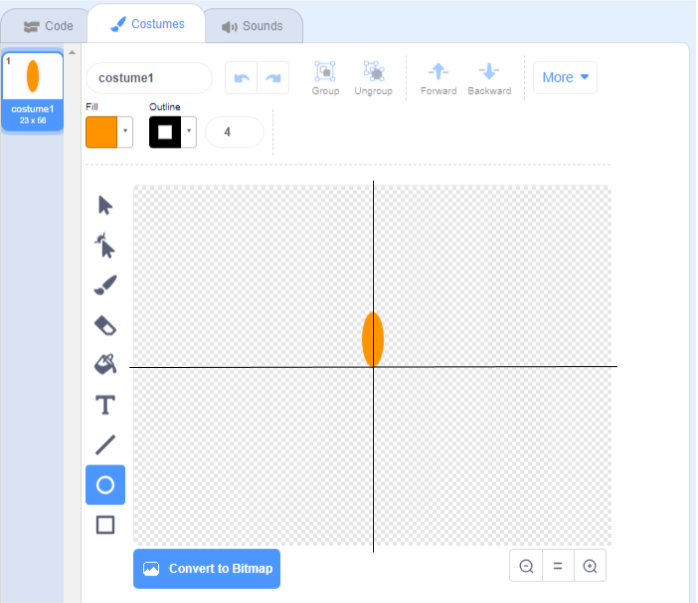
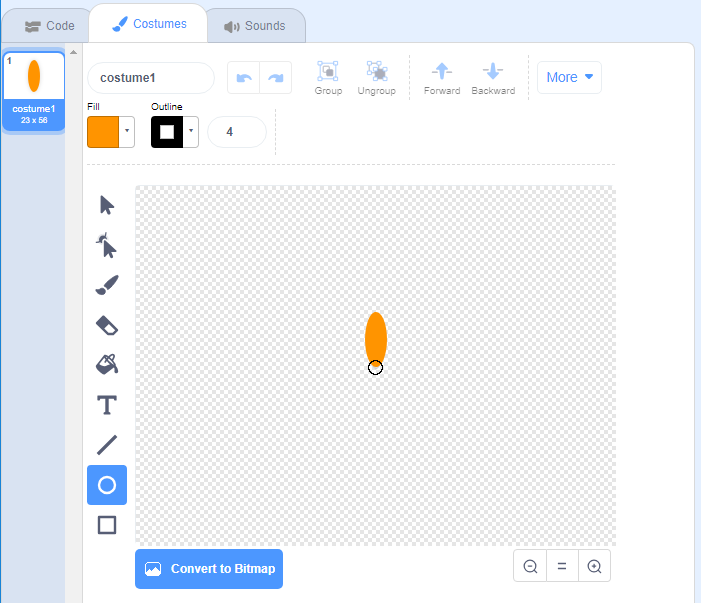
changed crosshair

diff --git a/en/step_7.md b/en/step_7.md
@@ -6,7 +6,7 @@ You will now use your `draw flower`{:class="block3myblocks"} block to create a h
 
 --- task ---
 
-Add a new Event block to your code so that `when the r key is pressed`{:class="block3events"}, the screen is `cleared`{:class="block3extensions"}.
+Add a new Event block to your sprite's code so that `when the r key is pressed`{:class="block3events"}, the screen is `cleared`{:class="block3extensions"}.
 
 ![flower sprite](images/flower-sprite.png)
 

diff --git a/en/step_2.md b/en/step_2.md
@@ -62,7 +62,7 @@ This is because the sprite is being rotated around its centre.
 
 --- task ---
 
-Move your petal so its bottom is the centre.
+Move your petal so its bottom is in the centre.
 
 ![screenshot](images/flower-crosshair-annotated.png)
 
